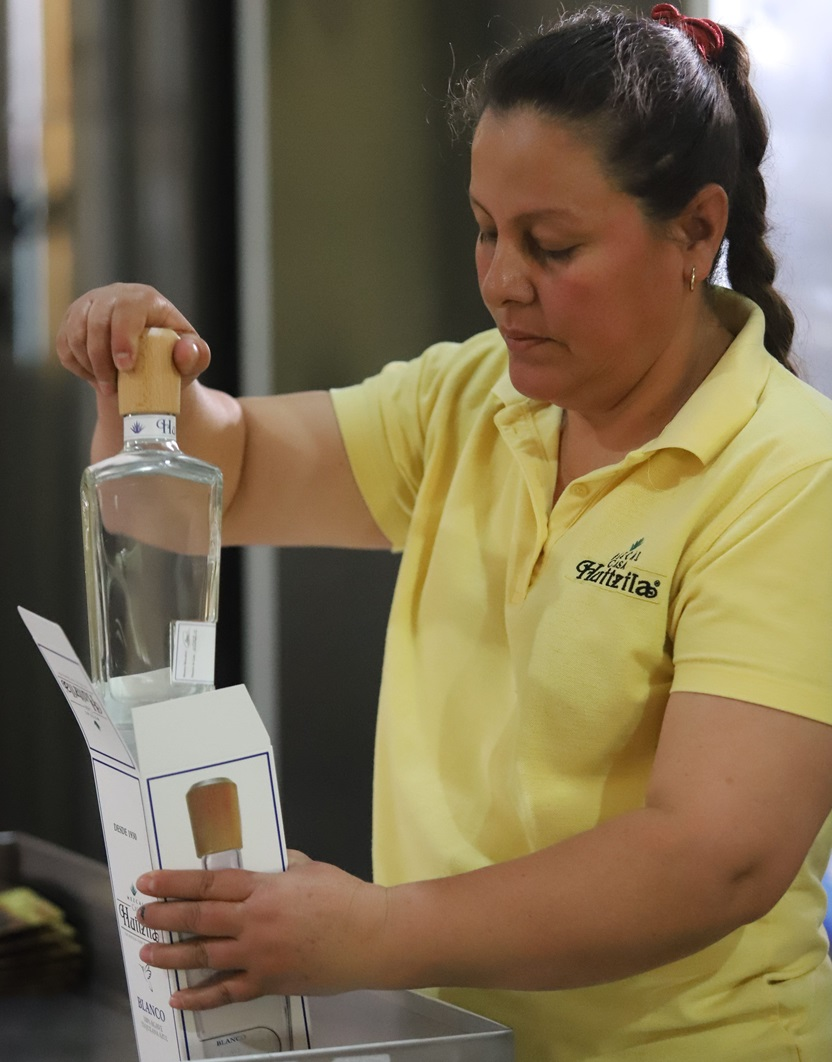
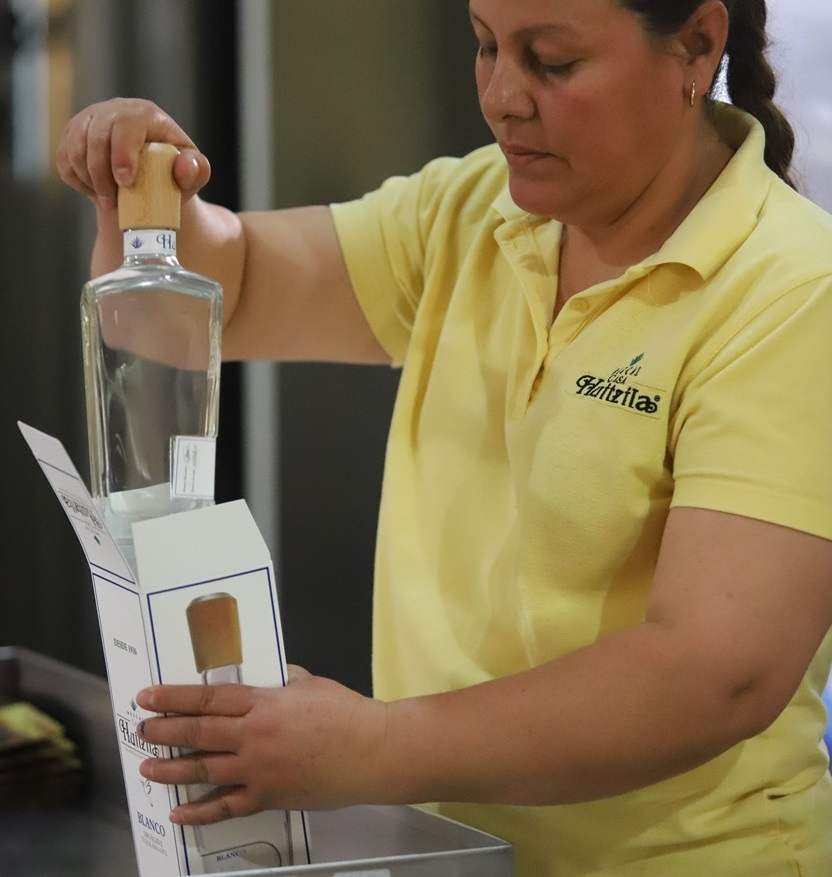
imagen de fondo para envasado

diff --git a/view/insumos/Principal_Insumos.html b/view/insumos/Principal_Insumos.html
@@ -10,7 +10,7 @@
 	<link rel="stylesheet" href="../../public/css/insumos.css">
     
 </head>
-<body>
+<body class="imagen_principal">
     <header>
 		<div class="header_superior">
 			<div class="img-ventana">
@@ -124,11 +124,7 @@
 			<div class="cabezera">
 				<h4 class="centered" >Bienvenido a Envasado</h4>
 			</div>
-			<div class="imagen-container">
-				<div class="imagen-wrapper">
-					<img class="imagen-responsive" src="../../public/Principal_Envasado.jpg">
-				</div>
-			</div>
+			
 			<br>
         </section>
     <main>

diff --git a/public/css/insumos.css b/public/css/insumos.css
@@ -119,3 +119,12 @@ td {
     padding: 30px;
 
 }
+.imagen_principal {
+    /* Establece la imagen de fondo */
+    background-image: url('../../public/Principal_Envasado.jpg');
+    background-size:cover;
+    background-repeat:repeat;
+    position: relative; 
+}
+
+
